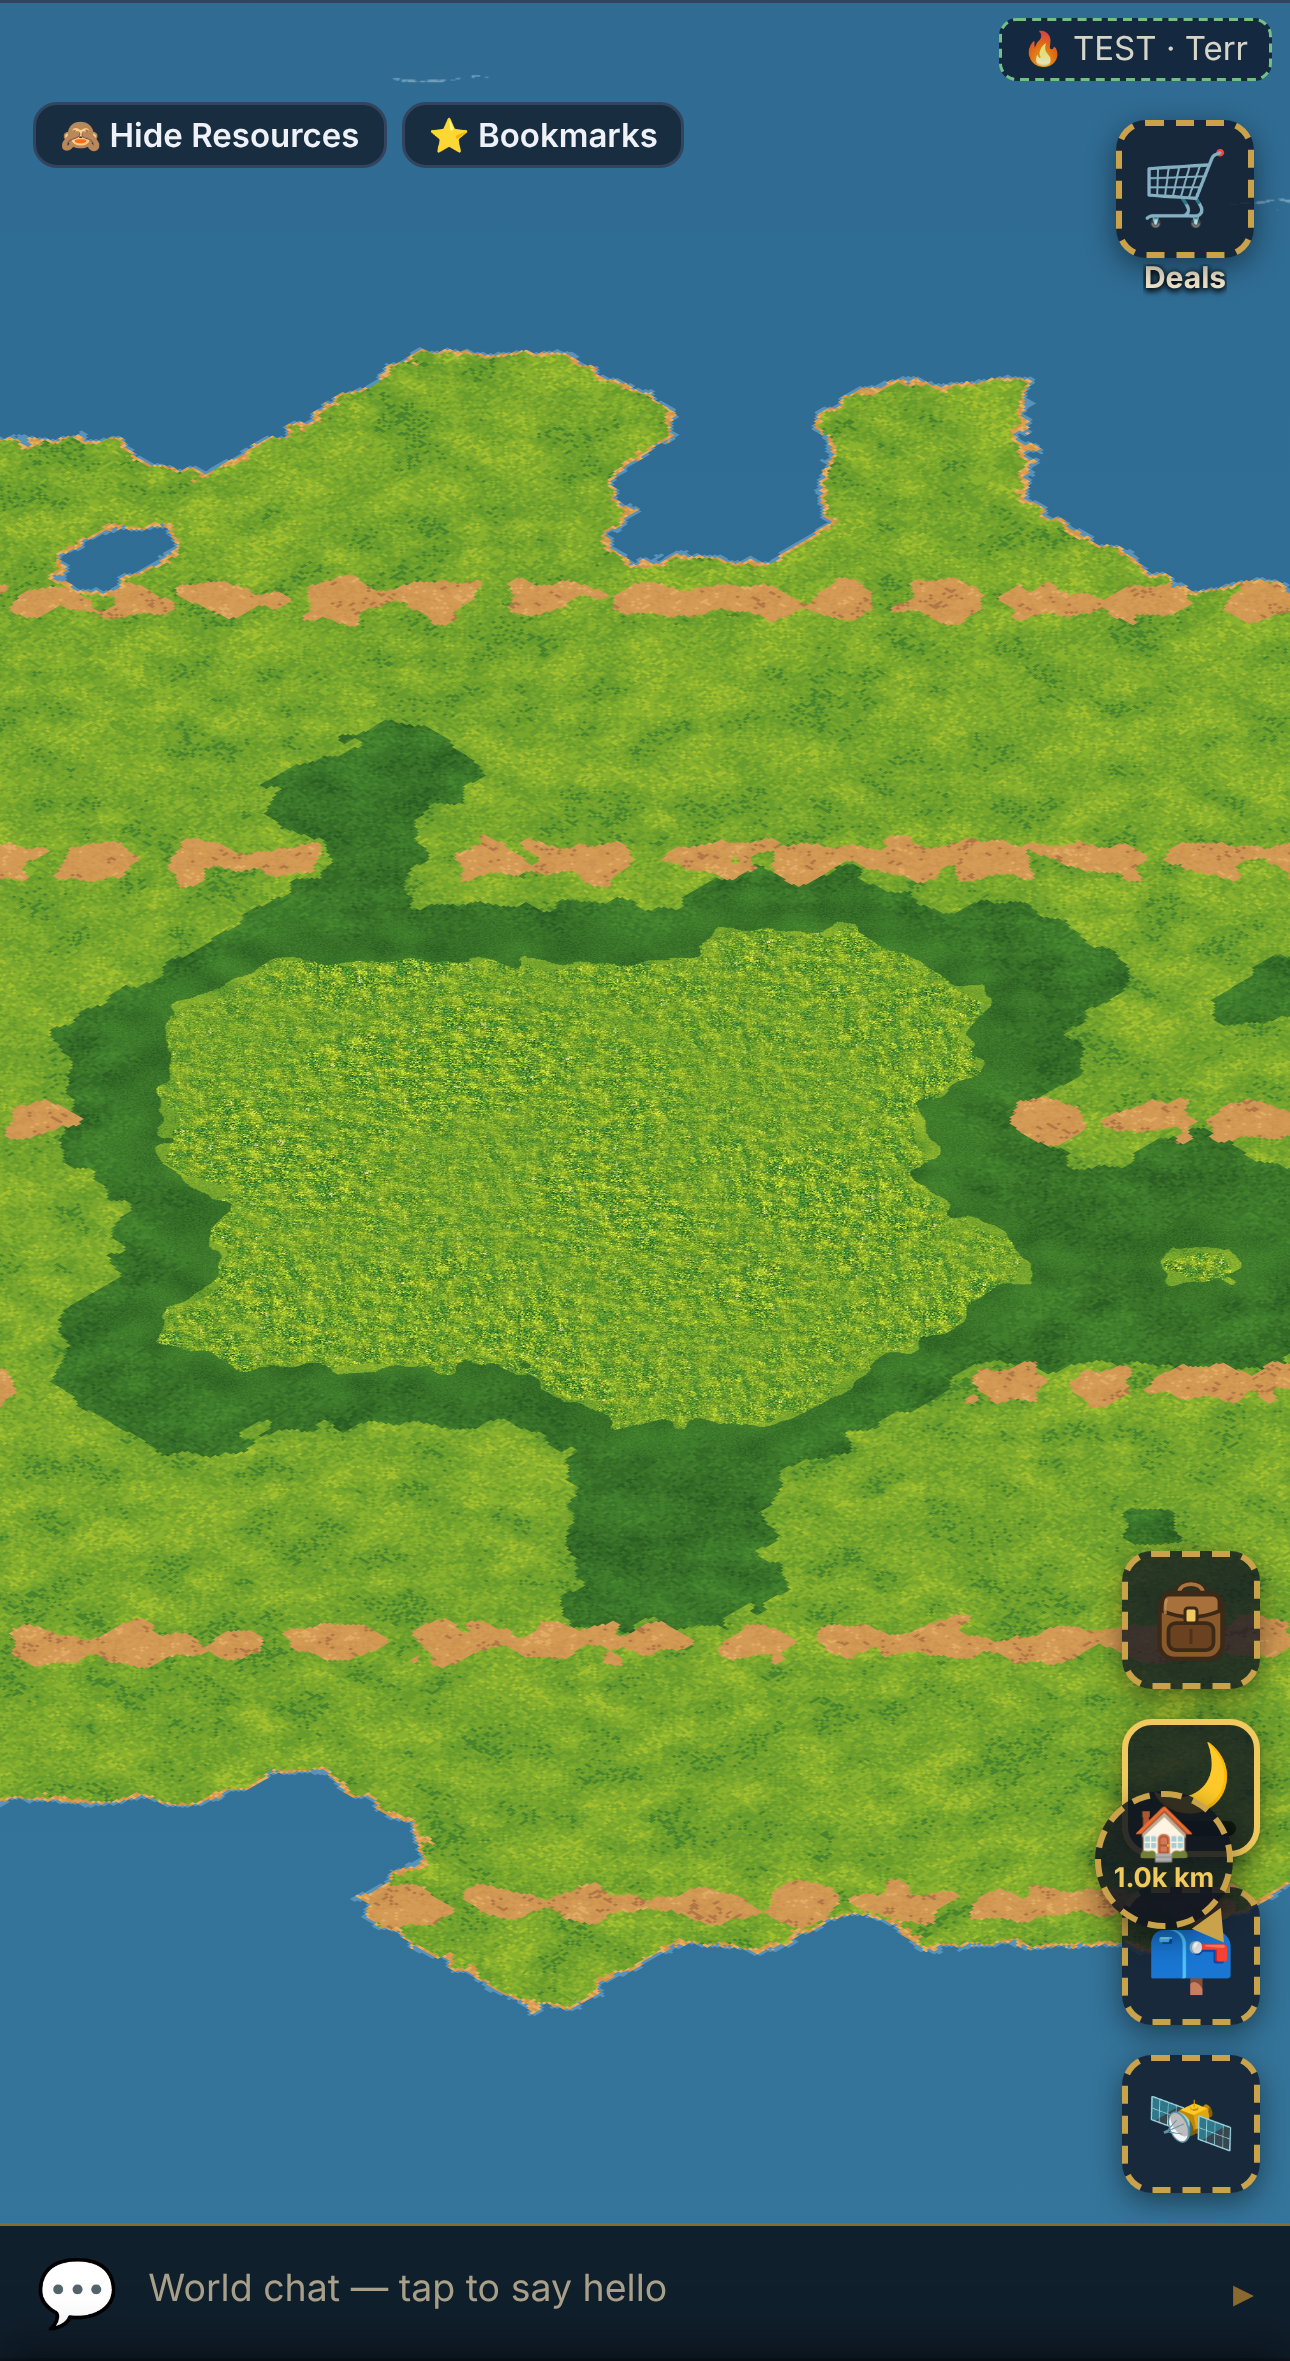
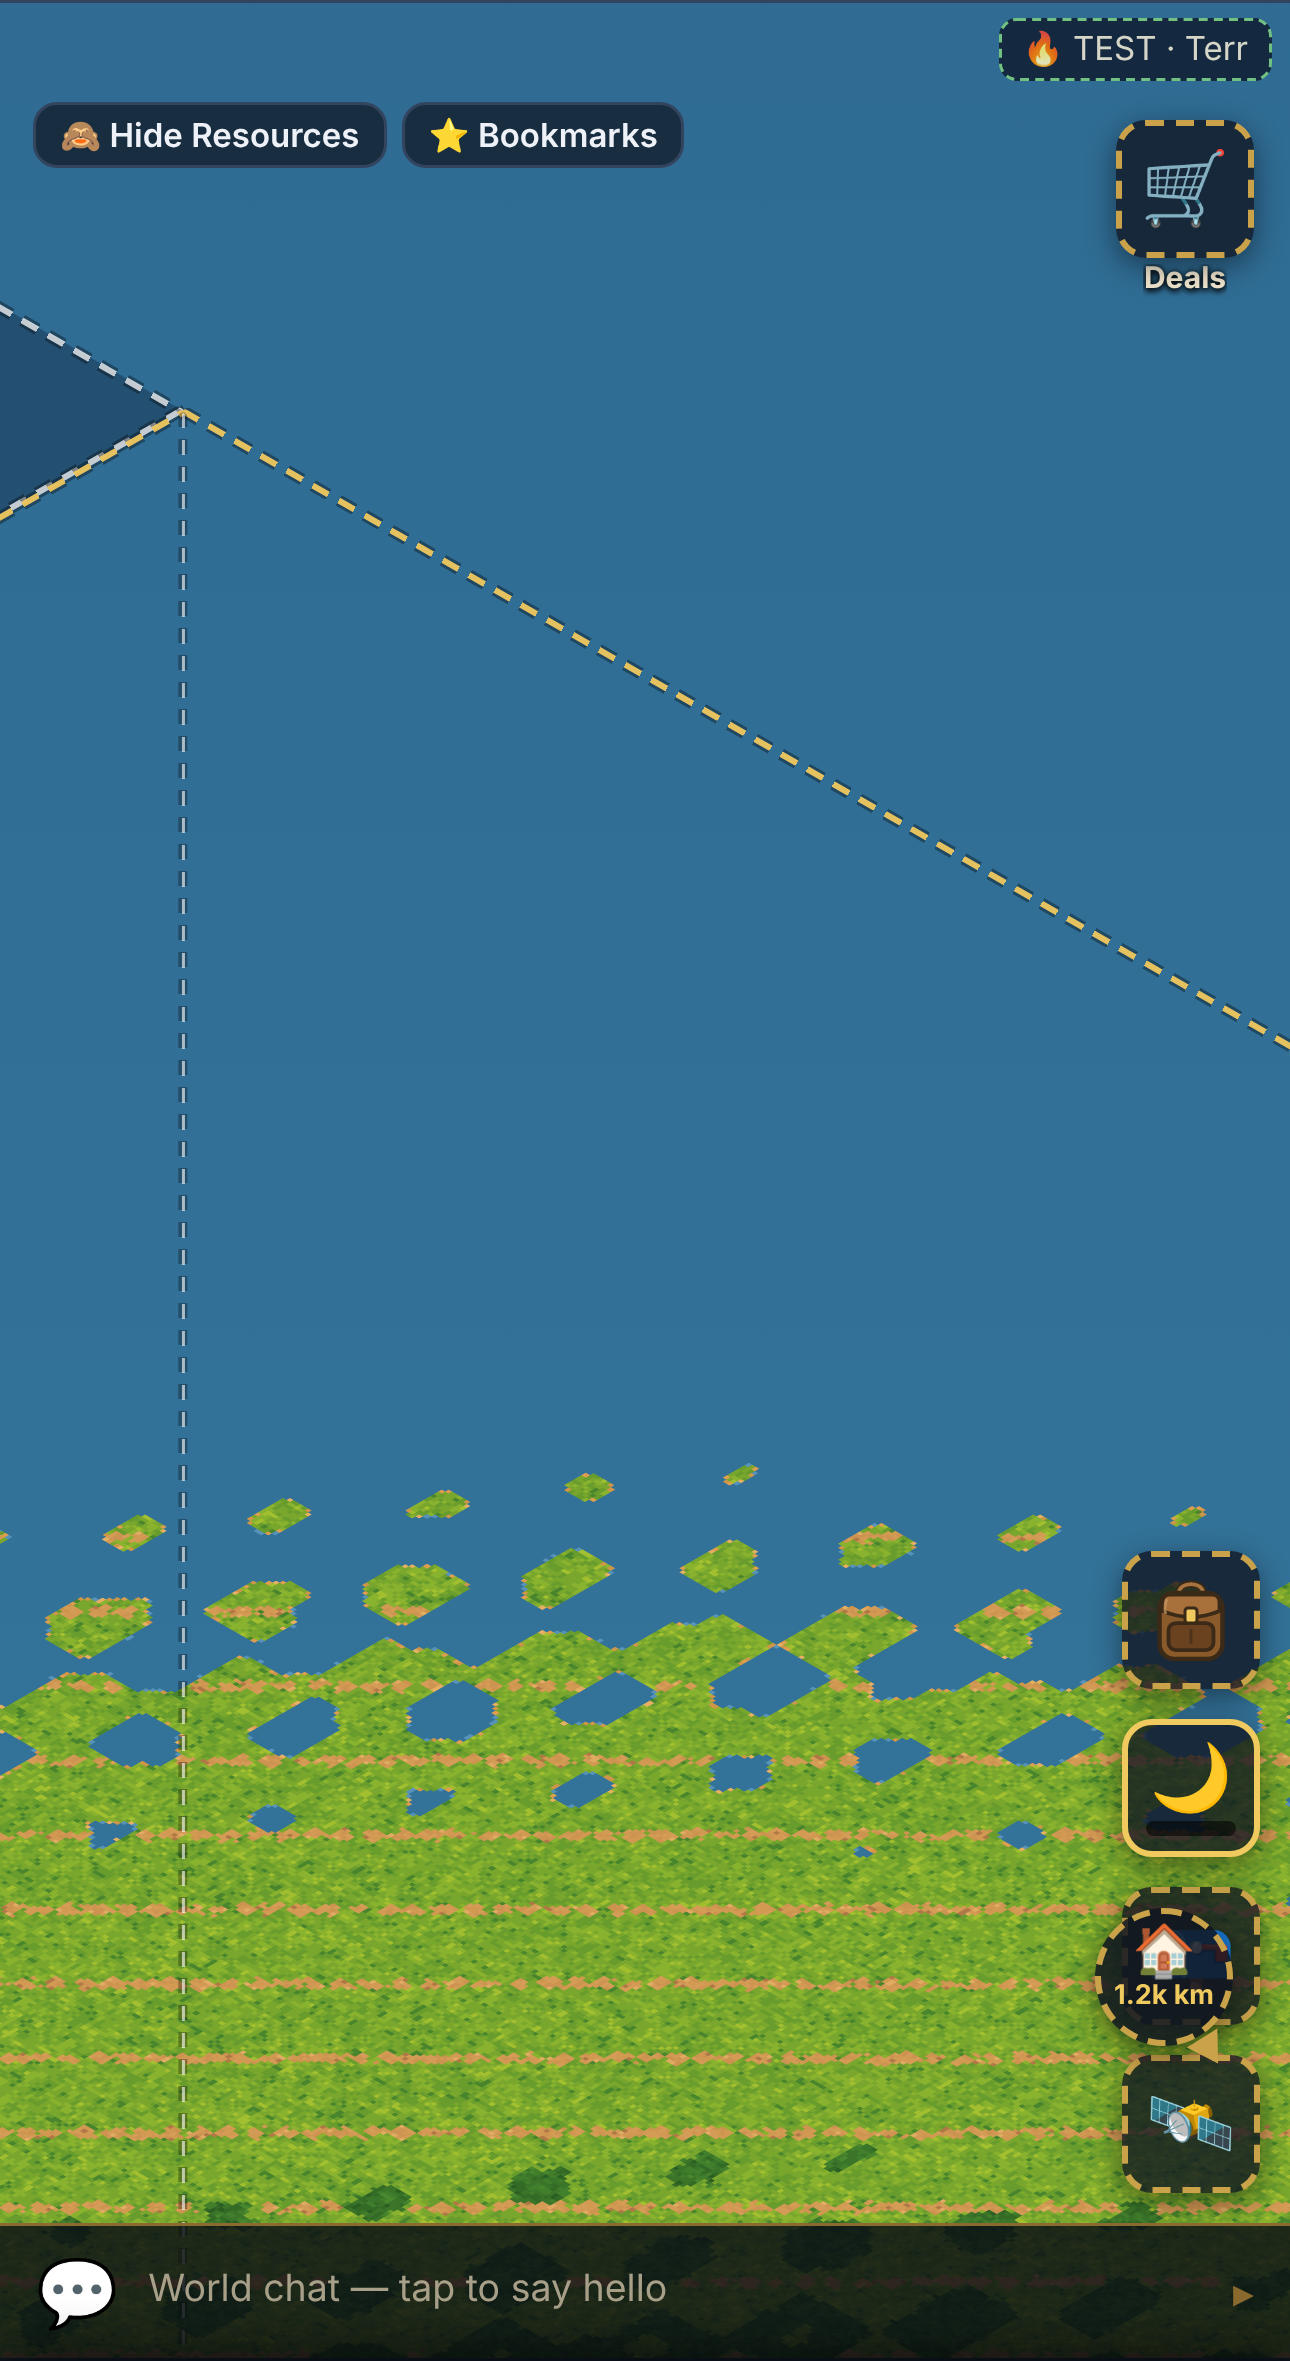
dev: g289 BIG=1 paints a large land area (zoom-out experiments)
Claude-Session: https://claude.ai/code/session_01QsPEQ4Aqm4527bERCrNpiN

diff --git a/dev/simfork/g289_terrainchunks.js b/dev/simfork/g289_terrainchunks.js
@@ -21,10 +21,10 @@ async function run(gameHtml, shotName) {
   await P.fill("#ksE", "g289" + shotName + "@test.dev"); await P.fill("#ksP", "secret123"); await P.click("#ksUp");
   await P.waitForSelector("#ksN", { timeout: 15000 }); await P.fill("#ksN", "Terr"); await P.click("#ksGo"); await P.waitForTimeout(6000);
   await P.evaluate(() => setScreen("world")); await P.waitForTimeout(2000);
-  await P.evaluate(() => { terrainEnsure(); const n = terrainN, X = 40, Y = 10;
-    for (let y = Y; y < Y + 40; y++) for (let x = X; x < X + 45; x++) { const dx = x - X - 22, dy = y - Y - 20, r = Math.hypot(dx, dy * 1.1) + 3 * Math.sin(x * 0.7) * Math.cos(y * 0.5); if (r < 19) terrainArr[y * n + x] = r < 6 ? 4 : r < 9 ? 3 : (x + y) % 9 === 0 ? 2 : 1; }
+  await P.evaluate((big) => { terrainEnsure(); const n = terrainN, X = 40, Y = 10, SZ = big ? 6 : 1;
+    for (let y = Y; y < Y + 40 * SZ; y++) for (let x = X; x < X + 45 * SZ; x++) { const dx = (x - X) / SZ - 22, dy = (y - Y) / SZ - 20, r = Math.hypot(dx, dy * 1.1) + 3 * Math.sin(x * 0.7) * Math.cos(y * 0.5); if (r < 19) terrainArr[y * n + x] = r < 6 ? 4 : r < 9 ? 3 : (x + y) % 9 === 0 ? 2 : 1; }
     for (let cy = 0; cy < Math.ceil(n / TERRAIN_CHUNK); cy++) for (let cx = 0; cx < Math.ceil(n / TERRAIN_CHUNK); cx++) { const x0 = cx * TERRAIN_CHUNK, y0 = cy * TERRAIN_CHUNK; let any = false; for (let y = y0; y < Math.min(n, y0 + TERRAIN_CHUNK) && !any; y++) for (let x = x0; x < Math.min(n, x0 + TERRAIN_CHUNK); x++) if (terrainArr[y * n + x]) { any = true; break; } if (any) terrainLandChunks[cx + "_" + cy] = 1; }
-    terrainClearAll(); try { forestRefreshSoon(); } catch (e) {} setMapZoom(0.7); const vp = document.getElementById("mapviewport"), c = tileCenterPx({ x: 62, y: 30 }); vp.scrollLeft = c.x - vp.clientWidth / 2; vp.scrollTop = c.y - vp.clientHeight / 2; renderVisibleTiles(); });
+    terrainClearAll(); try { forestRefreshSoon(); } catch (e) {} setMapZoom(0.7); const vp = document.getElementById("mapviewport"), c = tileCenterPx({ x: 62, y: 30 }); vp.scrollLeft = c.x - vp.clientWidth / 2; vp.scrollTop = c.y - vp.clientHeight / 2; renderVisibleTiles(); }, !!process.env.BIG);
   await P.waitForTimeout(2500);
   const scroll = await P.evaluate(async () => { let draws = 0; const ctxp = CanvasRenderingContext2D.prototype, od = ctxp.drawImage; ctxp.drawImage = function (img) { if (this.canvas.classList && this.canvas.classList.contains("terr-ch")) draws++; return od.apply(this, arguments); };
     const vp = document.getElementById("mapviewport"), x0 = vp.scrollLeft; for (let k = 0; k < 60; k++) { vp.scrollLeft = x0 + k * 6; await new Promise((r) => requestAnimationFrame(r)); } for (let k = 0; k < 60; k++) { vp.scrollLeft = x0 + (59 - k) * 6; await new Promise((r) => requestAnimationFrame(r)); }
